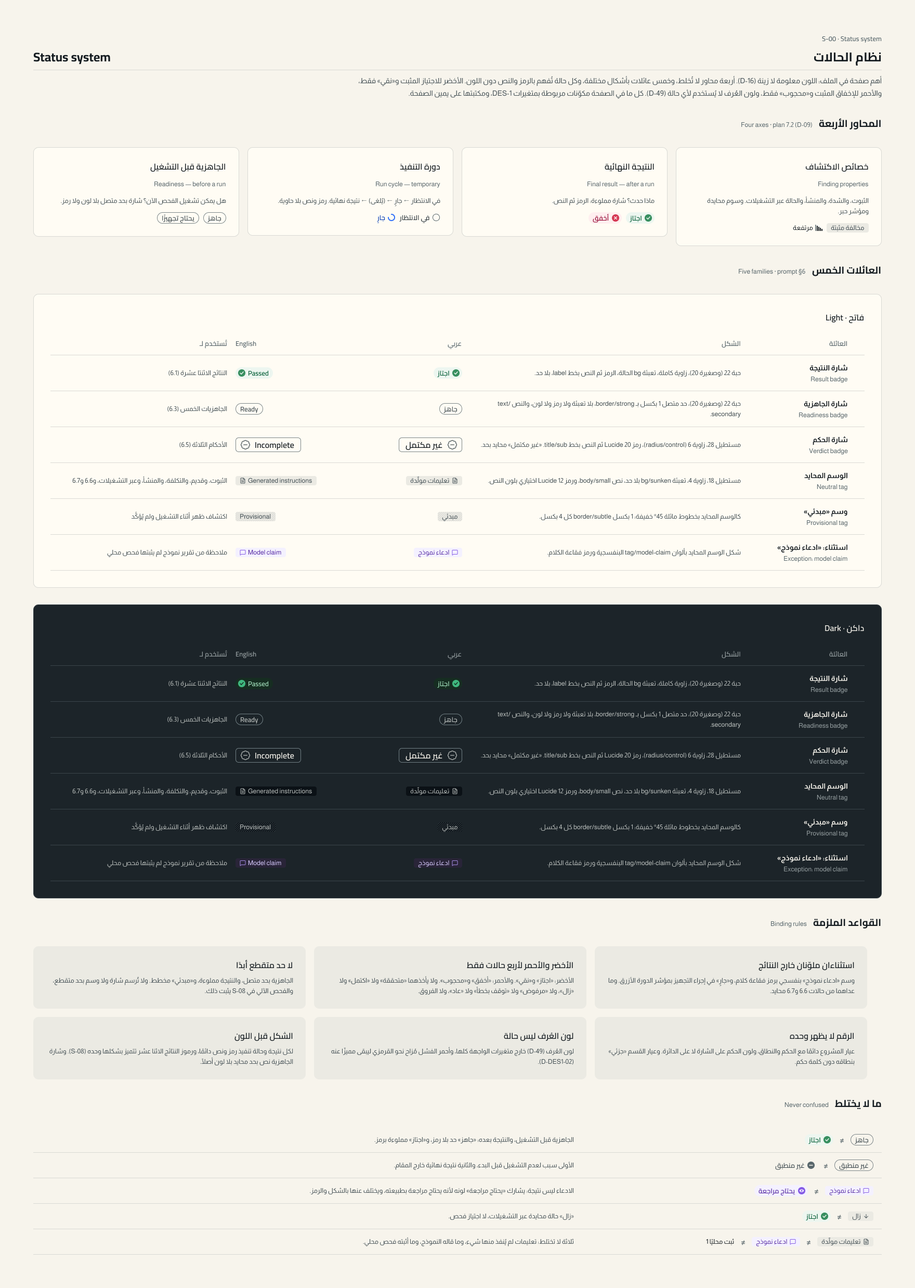
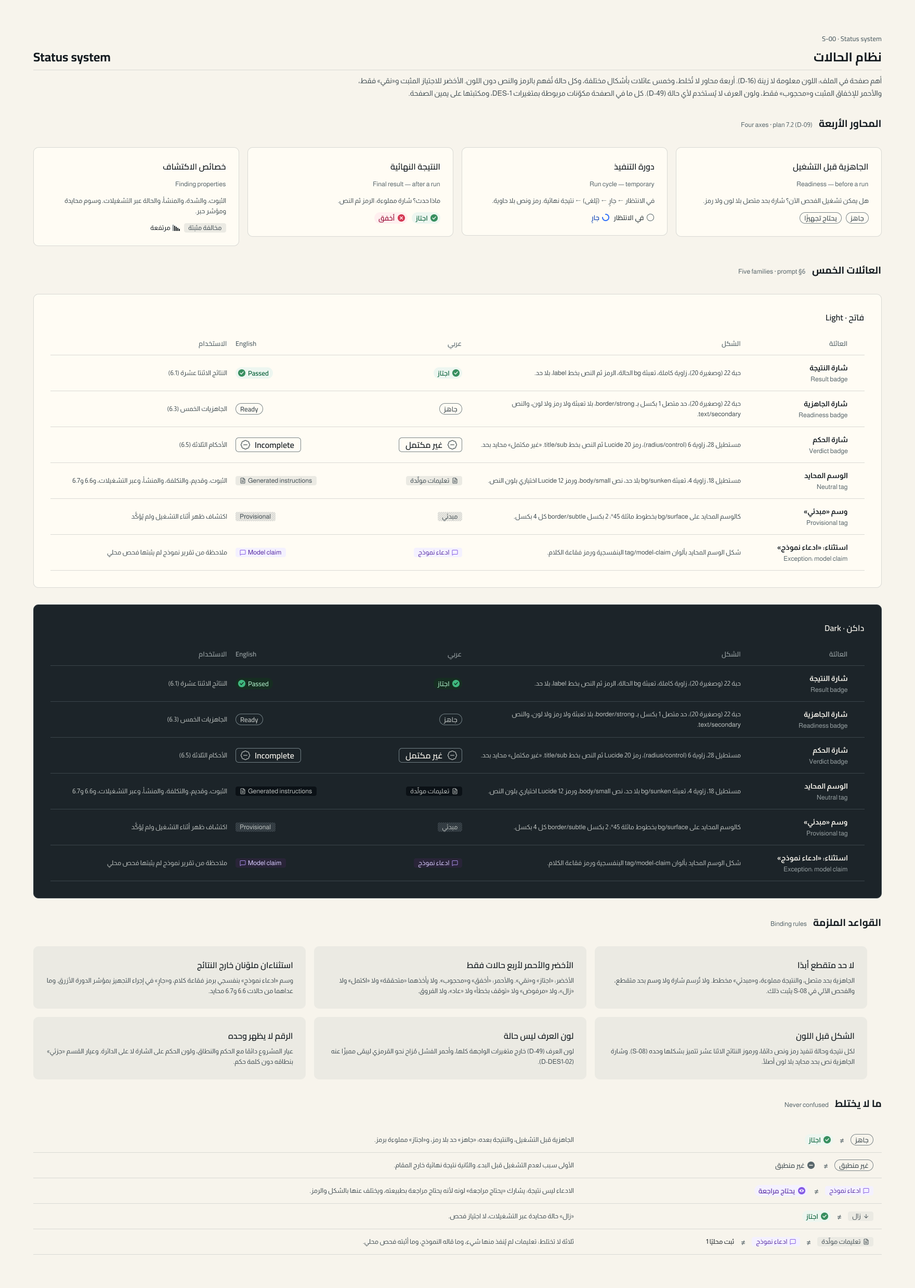
design(DES-2): إصلاحات المراجعة البصرية المستقلة وإعادة الفحوص واللقطات
المراجعة: حاجبة 0، وينبغي إصلاحها 8 أُصلح منها 7، والثامنة (زوج ناقص وغير منطبق)
تبقى لأن الخطة 16.5 تجعل النتائج قرصًا مملوءًا. والإصلاحات: خطوط «مبدئي»
الظاهرة في الوضعين، وترتيب المكتبة بلا تراكب، وأسماء المتغيرات بـ {state}،
والتلميح تحت الدائرة، ورسم «تُخطّي» و«جارٍ · ثابت» بحجم 12، وتحسينات نصية.
status-check.mjs: 296/296، ومطابقة Figma 176/176، والتدقيق الآلي بلا مخالفة.
وقرارات D-DES2-02 و05 و06 أكدتها الجلسة الرئيسية بتفويض المالك.

diff --git a/docs/phases/design/DES-2-status-icons.md b/docs/phases/design/DES-2-status-icons.md
@@ -10,7 +10,7 @@ depends_on: [DES-1]
 design_gates: []
 owner_gates: []
 owner_inputs: []
-owner_request: "اعتماد DES-2: صفحتا Status System وIcons في Figma (لقطاتهما في docs/design/DES-2/review/)، والفحوص كلها نجحت (296/296 تباين، وتدقيق Figma بلا مخالفة)"
+owner_request: "اعتماد DES-2: صفحتا Status System وIcons (اللقطات في docs/design/DES-2/review/)، بعد مراجعة بصرية مستقلة بلا ملاحظة حاجبة وفحوص ناجحة"
 model: Claude Opus 5.5
 effort: xhigh
 model_reason: أخطر نقطة دلالية: تمييز الحالات بالشكل والنص دون اللون
@@ -109,7 +109,7 @@ closing_commit:
 
 ## 11. حالة التقدم ونقطة الاستئناف
 
-- **الحالة:** `awaiting-owner`. المهام 1–8 منجزة في Figma، والمهمة 9 (العرض على المالك) مرفوعة إلى الجلسة الرئيسية.
+- **الحالة:** `awaiting-owner`. المهام 1–8 منجزة، والمراجعة البصرية المستقلة أُكملت وأُصلح ما يلزم منها (بطلب الجلسة الرئيسية)، والمهمة 9 (العرض على المالك) مرفوعة إلى الجلسة الرئيسية.
 - **آخر تحديث:** 2026-10-10.
 - **جلسة Figma:** `create_session` بالملف `UXkPakdqRuHDVTs78DO4uC`، ومهارة `figma:figma-use`. وLucide مثبتة على lucide-static 1.48.0 (ISC)، نُزّلت ملفات SVG للأيقونات المستخدمة وحدها (نحو 190 KB) إلى مجلد مؤقت خارج المستودع.
 
@@ -135,17 +135,44 @@ closing_commit:
 | محاكاة عمى الألوان للصفحة كاملة | `python3 -I docs/design/DES-2/review_images.py cvd <png> <dir> protanopia deuteranopia tritanopia` على اللقطات السبع عشرة (51 صورة)، و`status-check.mjs` لألوان الرموز | **نجح:** كل نتيجة تتميز بشكلها الداخلي (12 شكلًا فريدًا، S-08). وأقرب الأزواج اجتاز↔أخفق في عمى الأخضر (ΔE 7.1 فاتح، 5.0 داكن) فيميزهما ✓ و× والنص. نماذج في `docs/design/DES-2/cvd/` |
 | التباين في الوضعين | `/opt/homebrew/bin/node docs/design/DES-2/status-check.mjs` (رمز الخروج 0) | **نجح:** 296/296. أدنى رمز أو حد 3.14:1 (فاتح) و3.33:1 (داكن)، وكل نص ≥ 4.5:1. ومطابقة Figma 176/176. التفاصيل `checks.md` |
 | الرموز بحجم 12 | تصدير 1x و2x وتكبير بالجار الأقرب (`review_images.py zoom`) ومراجعتها | **نجح:** السبعة عشر متمايزة في 2x (Retina)، وفي 1x أضعفها «تُخطّي» و«جارٍ · ثابت» لكنهما يبقيان مميزين. `review/symbols-12px-*.png` |
-| لا أخضر ولا أحمر خارج الأربع، ولا حد متقطع | سكربت `use_figma` على الصفحتين | **نجح:** 0 مخالفة، و447 + 49 استخدامًا مسموحًا. `figma-audit.json` |
-| كل العناصر مربوطة بمتغيرات | السكربت نفسه | **نجح:** 6038/6038 و1478/1478 طلاءً مربوطًا، ولا تأثير بلا نمط |
+| لا أخضر ولا أحمر خارج الأربع، ولا حد متقطع | سكربت `use_figma` على الصفحتين | **نجح** (بعد إصلاحات المراجعة): 0 مخالفة، و452 + 49 استخدامًا مسموحًا. `figma-audit.json` |
+| كل العناصر مربوطة بمتغيرات | السكربت نفسه | **نجح:** 6091/6091 و1478/1478 طلاءً مربوطًا، ولا تأثير بلا نمط، ولا محرف إيموجي في النصوص |
 | قائمة التسليم §14 (الحالات والرموز) | مراجعة البنود مقابل الإطارات | **نجح:** كل بنود §14 الخاصة بصفحة الحالات والرموز الخمسة عشر موجودة (الجدول أعلاه) |
 | ما لم يُمس | عدّ العقد | الأرشيف 5336 والهوية الأصلية 420 كما في DES-1. وعُدّل في الغلاف سطرا DES-2 في الفهرس إلى «بانتظار اعتماد المالك» |
-| مراجعة بصرية مستقلة | وكيل `ui-ux-guardian` على لقطات `review/` | **لم تكتمل قبل التسليم إلى الجلسة الرئيسية:** أُطلقت، ولم تصل نتيجتها؛ تُعاد أو تُستكمل عند الاستئناف |
+| مراجعة بصرية مستقلة | وكيل `ui-ux-guardian` في المقدمة على اللقطات والقواعد الملزمة (القسم 4)، ومعه مراجعة سابقة في الخلفية | **نُفّذ:** حاجبة 0، وينبغي إصلاحها 8، وتحسين اختياري 9 (التفاصيل أدناه). أُصلحت سبع من الثماني ومعظم الاختيارية، وأُعيدت الفحوص واللقطات |
+
+### نتيجة المراجعة البصرية المستقلة (2026-10-10)
+
+**ما أُصلح** (في Figma، وأُعيد تصدير اللقطات):
+
+| الملاحظة | الإصلاح |
+|---|---|
+| «مبدئي» لا يُرى مخططًا في الفاتح (الخط 1.17:1) | أساس الوسم bg/surface، والخطوط 2 بكسل border/subtle كل 4 بكسل: تظهر في الوضعين (1.38:1 و1.60:1)، والنص فوقها ≥ 5.27:1 |
+| تراكب متغيرات «عيار القسم» في المكتبة | إعادة ترتيب المجموعات التسع بشبكة تحسب العرض الفعلي، وفحص آلي: صفر تراكب |
+| أسماء متغيرات بعنصر نائب عربي تنقلب (`result/<الحالة>/bg`) | `{state}` بدل العنصر العربي في S-01 وI-03 |
+| مسار المشروع في S-07 يُقرأ من اليمين | مسار لاتيني في العينة (`~/Projects/texts-library`)؛ والمسارات العربية تخص حبة المسار في DES-3 |
+| التلميح بعيد عن الدائرة | التلميح تحت الدائرة بسهم صغير (bg/elevated وborder/subtle) |
+| سهم الترويسة في S-08 يظهر إيموجي ملونًا | «اجتاز مقابل أخفق» نصًا، وفحص آلي: لا محرف سهم أو إيموجي في نصوص الصفحة |
+| «تُخطّي» و«جارٍ · ثابت» ضعيفان بحجم 12 في 1x | بحجم 12 وحده: قوس أخفض ورأس سهم أكبر لـ«تُخطّي»، ونقاط 2 بكسل بتباعد 2.75 لـ«جارٍ · ثابت» |
+| تحسينات صغيرة | تسمية العيّنات في S-07 «عيّنات قياس فقط»، وتسميات md وsm في S-02، و«لا نطاق» في مركز دائرة البطاقة، ورابط «تفاصيل الاحتساب» في جهة البداية بكل البطاقات العربية، وسطر «يمنع حكم ‹نقي›» بخط body/strong بلون الحبر، وبطاقة «نطاق ضيق» الإنجليزية، وترتيب RTL وتساوي الارتفاع لبطاقات المحاور (S-00) والعائلات (I-00)، وترتيب القواعد، وفصل الواو عن الكلمة اللاتينية، ومنع كسر السطر داخل أسماء المتغيرات (U+2060)، و«الاستخدام» بدل «تُستخدم لـ»، و«العرف» دون ضمة تُقرأ نقطة، وتوضيح أن شارتي «بمراجعة» شارتا نتيجة في S-04 |
+
+**ما بقي دون تغيير وسببه:**
+
+| الملاحظة | السبب |
+|---|---|
+| «ناقص» (+) و«غير منطبق» (−) أقرب زوج بحجم 12 (اقتراح: حلقة مفرّغة لغير منطبق) | الخطة 16.5 تجعل النتائج كلها «دائرة مملوءة فيها رمز»؛ والفرق بالخط العمودي كامل الطول ظاهر في 1x و2x (`review/symbols-12px-*`) ومع النص دائمًا. يُعرض على المالك |
+| رمز «غير مكتمل» (ختم بشرطة) يقارب شرطة «غير منطبق» | العائلتان مختلفتان شكلًا (ختم Lucide بخط مقابل قرص مملوء) وسياقًا (شارة حكم 28 مقابل شارة نتيجة)؛ يُعرض على المالك |
+| أيقونات وسوم فيها صح أو × (user-check وuser-x وpackage-x وcheck-check وlist-checks) | بحبر محايد وداخل شكل آخر (شخص أو حزمة)، والقاعدة تمنع رموز 6.1 المخصصة لا كل علامة صح (D-DES2-04) |
+| تعبئة «غير منطبق» تساوي bg/canvas في الفاتح، و«ناقص» و«تُخطّي» بالتعبئة نفسها، وتعبئتا «تعذّر» و«انتهت المهلة» أثقل من «أخفق» | قيم Status معتمدة في DES-1 (D-DES1-07)؛ تعديلها يعيد فتح DES-1. والشارة تُقرأ بالرمز والنص. يُعرض على المالك |
+| شارة «نقي» في بطاقة «قديم» بكامل لونها | الشفافية أسقطت التباين (D-DES2-08)؛ والبهتان في الرقم والدائرة، ووسم «قديم» وسطره يعلنان القِدَم |
+| دائرة «لا نطاق» 1.60:1 في الداكن | معلوماتية: يرافقها سطر «لا يوجد نطاق قابل للقياس» وكلمة «لا نطاق» في مركزها، ورفعها إلى border/strong يطابقها بحالة 0 |
+| ارتفاعات بطاقات النقاء غير متساوية، وأعداد الحالات غير مصفوفة في عمود، وفراغ تحت جدول I-03، والتفاف عدّادي S-05 بالإنجليزية | تحسينات تخطيط في صفحة توثيق لا تمس المكوّن؛ تتولاها بطاقة النقاء في DES-3 (المكوّن 8) |
 
 ### القرارات المقترحة (تُنقل إلى ملف التسليم، وكلها للمنفّذ)
 
 | المعرّف | القرار |
 |---|---|
-| D-DES2-01 | بناء الرموز: النتائج قرص مملوء بلون `result/<id>/icon` يُفرَّغ منه الشكل (قرص 12/14/18 في مربع 12/16/20، وخط 1.5/1.5/2)، والدورة حلقة (1/1/1.5) أو قوس 270° (1.5/2/2.5). والثابتان: «جارٍ» حلقة بثلاث نقاط، و«يُلغى» حلقة حول مربع |
+| D-DES2-01 | بناء الرموز: النتائج قرص مملوء بلون `result/<id>/icon` يُفرَّغ منه الشكل (قرص 12/14/18 في مربع 12/16/20، وخط 1.5/1.5/2)، والدورة حلقة (1/1/1.5) أو قوس 270° (1.5/2/2.5). والثابتان: «جارٍ» حلقة بثلاث نقاط (2 بكسل بحجم 12)، و«يُلغى» حلقة حول مربع. ورسم «تُخطّي» بحجم 12 مضبوط بصريًا (قوس أخفض ورأس أكبر) |
 | D-DES2-02 | الانعكاس: «تُخطّي» وحده ينعكس بين الرموز؛ والأيقونات الاتجاهية بنسختها (arrow-left وredo-2 للعربية)؛ والشدة تمتلئ من البداية؛ والدائرة لا تنعكس (من الساعة 12 مع عقارب الساعة) كالمؤشرات الدوارة |
 | D-DES2-03 | Lucide 1.48.0: العامة 16/20 بخط 1.5، والوسوم 12 بخط 2 (1 بكسل)، ورموز الأحكام 20: badge-check وbadge-minus وoctagon-x |
 | D-DES2-04 | أيقونات الوسوم (كتالوج I-04): الساعة لكل انتظار، وlaptop لـ«محلي»، والمنشأ نص فقط، و«جارٍ» في التجهيز رمز الدورة داخل الوسم؛ ولا ساعة رملية ولا مفتاح ربط ولا شرطة في الوسوم |
@@ -157,10 +184,18 @@ closing_commit:
 | D-DES2-10 | المكتبة وأسماء خصائصها (`docs/design/README.md` §2)، وTag بلا خاصية نص لأن Figma يوحّد القيمة الافتراضية بين RTL وLTR |
 | D-DES2-11 | الحركة: لفة كل 1000 مللي ثانية خطية مع عقارب الساعة، والثابت فورًا مع تقليل الحركة |
 | D-DES2-12 | قارئ الشاشة: اسمان لكل رمز في Annotations والوصف، والرمز aria-hidden داخل الشارة |
+| D-DES2-13 | وسم «مبدئي» على bg/surface بخطوط مائلة 2 بكسل border/subtle كل 4 بكسل (CSS: `repeating-linear-gradient(135deg, var(--border-subtle) 0 2px, transparent 2px 4px)`)؛ لأن الخط 1 بكسل على bg/sunken (1.17:1) لا يُرى في الفاتح |
+
+**أكدتها الجلسة الرئيسية بتفويض المالك (ORG-13، 2026-10-10):** D-DES2-02 (الدائرة قرص قياس دائري تحت «الساعات والمؤشرات الدوارة» فلا تنعكس، وأشرطة الشدة الخطية تنعكس)، وD-DES2-05 (إضافة متغيرات إلى Dimensions تعيد فتح DES-1، فالزاويتان ثابتان في المكوّن)، وD-DES2-06 (للسبب نفسه، مع قائمة ربط لـ DEV-10 في التسليم). وبقية القرارات للمنفّذ.
+
+**ملاحظات لملف التسليم:**
+
+- **لـ DES-3 وDEV-10 (D-DES2-05):** الزاوية الكاملة للحبوب (نصف الارتفاع: 11 و10) وزاوية الوسم 4 تُنفَّذان ثابتين في مكوّن الشارة والوسم، لا رمزي تصميم عامين، ولا تُضافان إلى Dimensions.
+- **لـ DEV-10 (D-DES2-06)، قائمة الربط خارج النطاق:** تعبئة `text/primary`: أعمدة الشدة المملوءة، وقطع دائرة التدريج المملوءة، وتعبئة الزر الرئيسي (ونصه text/inverse). وتعبئة `border/strong`: أعمدة الشدة الفارغة، وقطع الدائرة الفارغة. وتعبئة `text/tertiary` و`border/subtle`: دائرة «قديم» الباهتة (Tone=muted)، و`border/subtle` لقطع «لا نطاق». وخط أيقونات الوسوم بلون نص الوسم (`text/secondary`، أو `tag/model-claim/icon` في ادعاء النموذج). وخطوط «مبدئي» `border/subtle`. ويُكتب ذلك في الشيفرة بالمتغيرات نفسها (currentColor للأيقونات).
 
 وثلاثة نواقص حسمتها القرارات: G-DES2-01 (زاويتا 4 والكاملة بلا متغير → D-DES2-05)، وG-DES2-02 (لا متغير حبر للتعبئة → D-DES2-06)، وG-DES2-03 (Lucide 16/20 مقابل وسم 18 → D-DES2-03).
 
 ### نقطة الاستئناف
 
-- **آخر commit:** انظر `git log` على `phase/DES-2` (commit العمل `871a2ba` ثم commit اللقطات وهذا الملف).
-- **الخطوة التالية:** (1) استكمل المراجعة البصرية المستقلة (`ui-ux-guardian` على `docs/design/DES-2/review/`) وأصلح الحاجب منها وأعد تصدير ما تغير. (2) بعد جواب المالك: نفّذ تعديلاته إن طلب، ثم سجّل الاعتماد في `docs/design/README.md` §3 و§7، وانسخ اللقطات إلى `docs/design/approved/DES-2/`، وغيّر سطري الغلاف `58:44` و`58:49` إلى «DES-2 · معتمدة». (3) اكتب `docs/handoffs/DES-2.md` بالقرارات أعلاه، واجعل الحالة `delivered`، والتزم «phase(DES-2): تسليم المرحلة».
+- **آخر commit:** انظر `git log` على `phase/DES-2` (`871a2ba` الفحوص، و`3b06af3` اللقطات الأولى، ثم إصلاحات المراجعة).
+- **الخطوة التالية:** بعد جواب المالك: نفّذ تعديلاته إن طلب، ثم سجّل الاعتماد في `docs/design/README.md` §3 و§7، وانسخ اللقطات إلى `docs/design/approved/DES-2/`، وغيّر سطري الغلاف `58:44` و`58:49` إلى «DES-2 · معتمدة». ثم اكتب `docs/handoffs/DES-2.md` بالقرارات أعلاه، واجعل الحالة `delivered`، والتزم «phase(DES-2): تسليم المرحلة».

diff --git a/docs/design/DES-2/checks.md b/docs/design/DES-2/checks.md
@@ -208,7 +208,7 @@
 | light | وسم «ادعاء نموذج» | `tag/model-claim/fg` #562BA3 | `tag/model-claim/bg` #F4F1FF | 8.31:1 | 4.5:1 | نجح | النص |
 | light | وسم «ادعاء نموذج» | `tag/model-claim/icon` #855BE5 | `tag/model-claim/bg` #F4F1FF | 4.08:1 | 3:1 | نجح | فقاعة الكلام |
 | light | وسم «مبدئي» | `text/secondary` #434F54 | `border/subtle (خط)` #D9D9D4 | 5.97:1 | 4.5:1 | نجح | النص فوق الخط المائل |
-| light | وسم «مبدئي» | `text/secondary` #434F54 | `bg/sunken` #EBEAE3 | 7.01:1 | 4.5:1 | نجح | النص بين الخطوط |
+| light | وسم «مبدئي» | `text/secondary` #434F54 | `bg/surface` #FFFCF4 | 8.24:1 | 4.5:1 | نجح | النص بين الخطوط (أساس الوسم bg/surface) |
 | light | «جارٍ» في التجهيز | `cycle/running/icon` #3170F9 | `bg/sunken` #EBEAE3 | 3.62:1 | 3:1 | نجح | المؤشر الأزرق داخل الوسم |
 | light | الشدة والدائرة | `text/primary` #141B20 | `bg/surface` #FFFCF4 | 16.96:1 | 3:1 | نجح | عمود أو قطعة مملوءة |
 | light | الشدة والدائرة | `border/strong` #7B8588 | `bg/surface` #FFFCF4 | 3.69:1 | 3:1 | نجح | عمود أو قطعة فارغة |
@@ -356,7 +356,7 @@
 | dark | وسم «ادعاء نموذج» | `tag/model-claim/fg` #D8CBFF | `tag/model-claim/bg` #292438 | 9.91:1 | 4.5:1 | نجح | النص |
 | dark | وسم «ادعاء نموذج» | `tag/model-claim/icon` #A68CE6 | `tag/model-claim/bg` #292438 | 5.35:1 | 3:1 | نجح | فقاعة الكلام |
 | dark | وسم «مبدئي» | `text/secondary` #BABFBD | `border/subtle (خط)` #3B454B | 5.27:1 | 4.5:1 | نجح | النص فوق الخط المائل |
-| dark | وسم «مبدئي» | `text/secondary` #BABFBD | `bg/sunken` #0B1116 | 10.19:1 | 4.5:1 | نجح | النص بين الخطوط |
+| dark | وسم «مبدئي» | `text/secondary` #BABFBD | `bg/surface` #1C2429 | 8.45:1 | 4.5:1 | نجح | النص بين الخطوط (أساس الوسم bg/surface) |
 | dark | «جارٍ» في التجهيز | `cycle/running/icon` #699DF9 | `bg/sunken` #0B1116 | 7.04:1 | 3:1 | نجح | المؤشر الأزرق داخل الوسم |
 | dark | الشدة والدائرة | `text/primary` #F7F4EC | `bg/surface` #1C2429 | 14.33:1 | 3:1 | نجح | عمود أو قطعة مملوءة |
 | dark | الشدة والدائرة | `border/strong` #728085 | `bg/surface` #1C2429 | 3.86:1 | 3:1 | نجح | عمود أو قطعة فارغة |
@@ -370,11 +370,11 @@
 
 ## معلوماتي (غير ملزم)
 
-الخط المائل في «مبدئي» زخرفة خفيفة يرافقها النص دائمًا، و«لا نطاق» في الدائرة يرافقه سطر «لا يوجد نطاق قابل للقياس» ولا رقم.
+الخط المائل في «مبدئي» زخرفة خفيفة يرافقها النص دائمًا، و«لا نطاق» في الدائرة يرافقه سطر «لا يوجد نطاق قابل للقياس» وكلمة «لا نطاق» في مركزها (نص text/tertiary)، ولا رقم.
 
 | الوضع | الثنائية | النسبة |
 |---|---|---|
-| light | border/subtle (خط «مبدئي») ↔ bg/sunken | 1.17:1 |
+| light | border/subtle (خط «مبدئي»، 2 بكسل كل 4) ↔ bg/surface | 1.38:1 |
 | light | border/subtle (دائرة «لا نطاق») ↔ bg/surface | 1.38:1 |
-| dark | border/subtle (خط «مبدئي») ↔ bg/sunken | 1.93:1 |
+| dark | border/subtle (خط «مبدئي»، 2 بكسل كل 4) ↔ bg/surface | 1.60:1 |
 | dark | border/subtle (دائرة «لا نطاق») ↔ bg/surface | 1.60:1 |
